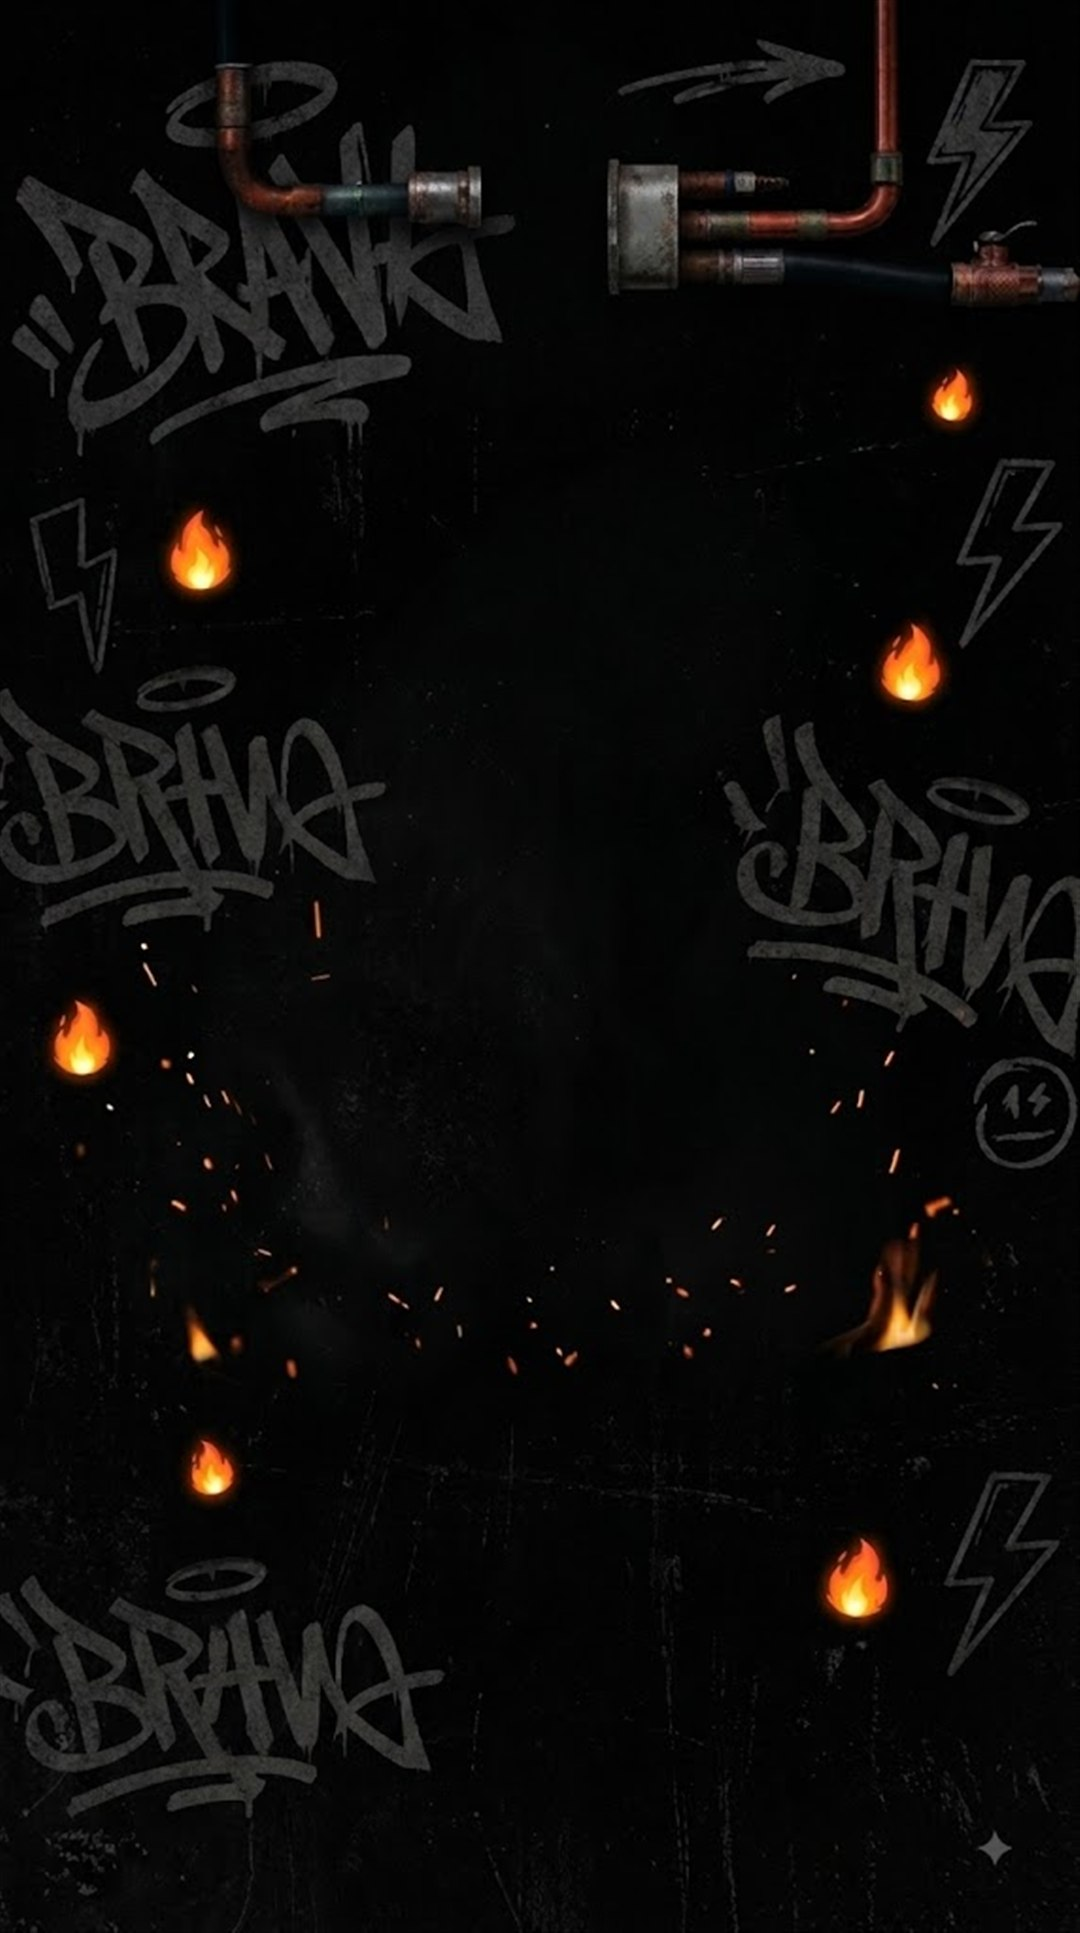
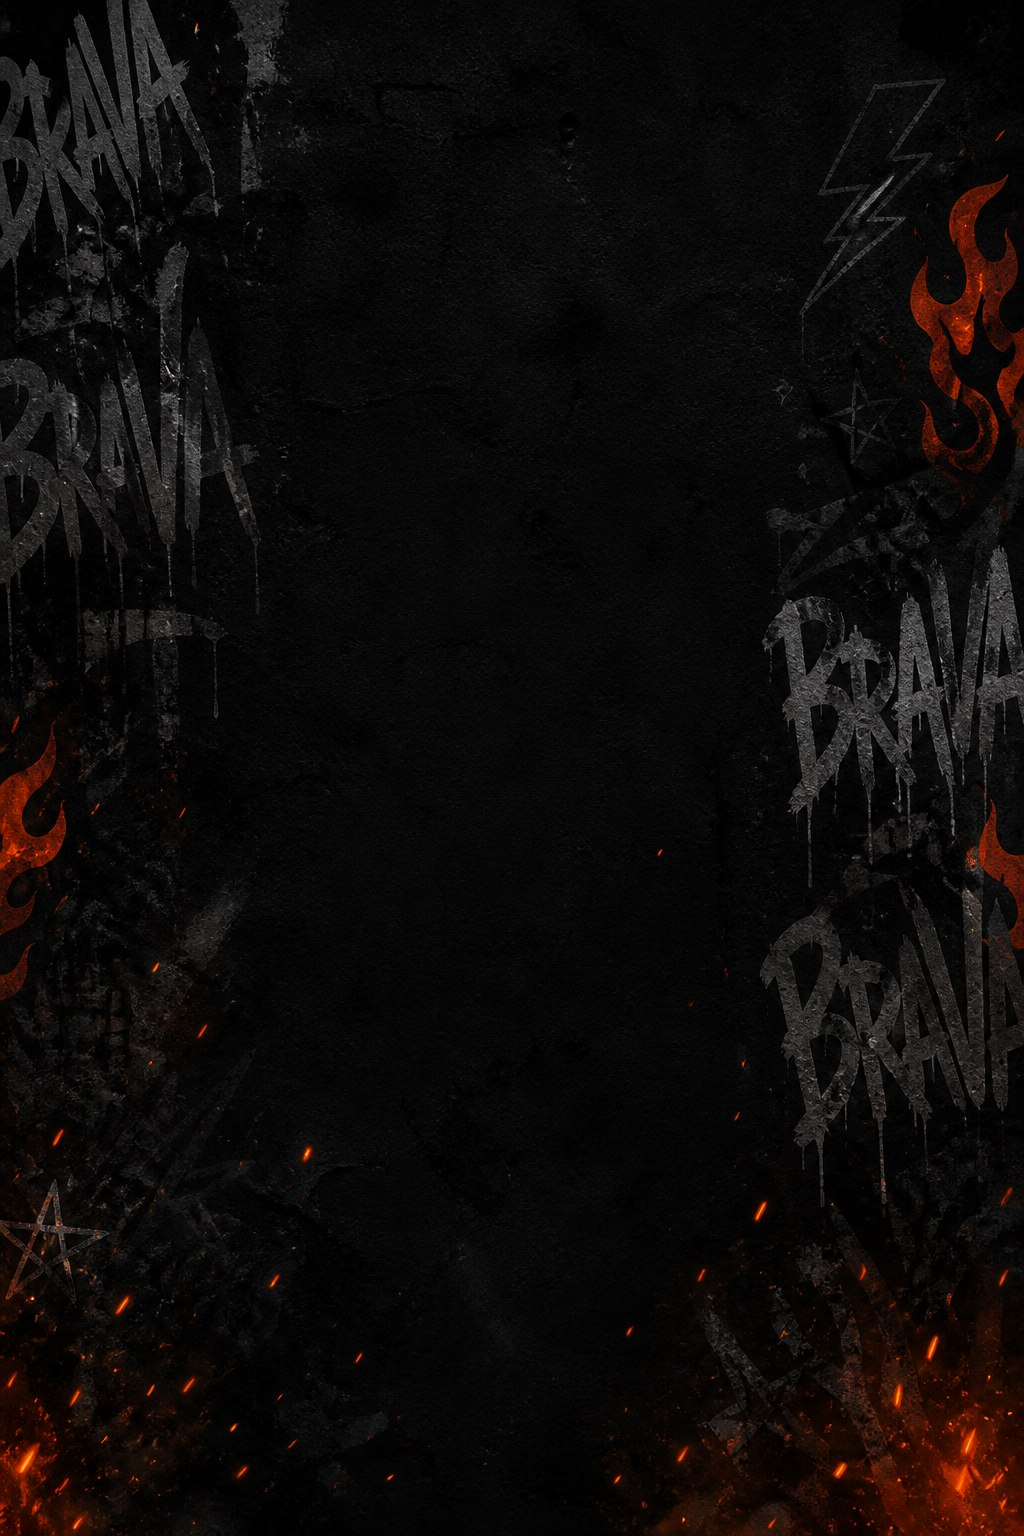
Agregar fondo grafiti generado para tienda móvil y PC.
Reemplaza los assets anteriores con diseño BRAVA oscuro, fuego naranja y centro limpio para el menú.

diff --git a/BravaBurgers/pedilo-data.js b/BravaBurgers/pedilo-data.js
@@ -768,8 +768,8 @@
 		}
 		el.textContent = css;
 
-		var bgMobile = t.imagenFondo || 'brava-fondo-tienda-desktop.jpg?v=6';
-		var bgDesktop = t.imagenFondoDesktop || t.imagenFondoPc || 'brava-fondo-tienda-desktop.jpg?v=6';
+		var bgMobile = t.imagenFondo || 'brava-fondo-tienda.jpg?v=7';
+		var bgDesktop = t.imagenFondoDesktop || t.imagenFondoPc || 'brava-fondo-tienda-desktop.jpg?v=7';
 		document.documentElement.style.setProperty('--brava-bg-mobile', "url('" + bgMobile + "')");
 		document.documentElement.style.setProperty('--brava-bg-desktop', "url('" + bgDesktop + "')");
 		document.body.classList.add('brava-has-bg-image');

diff --git a/BravaBurgers/index.html b/BravaBurgers/index.html
@@ -36,8 +36,8 @@
 		var g_ingredientes_catalog = [];
 		var g_telefono = '';
 	</script>
-	<script src="pedilo-data.js?v=30"></script>
-	<link href="brava-brand.css?v=30" rel="stylesheet">
+	<script src="pedilo-data.js?v=31"></script>
+	<link href="brava-brand.css?v=31" rel="stylesheet">
 	<style>
 		#preguntas_pedido.fancybox-content,
 		#pregunta_variedades.fancybox-content,
